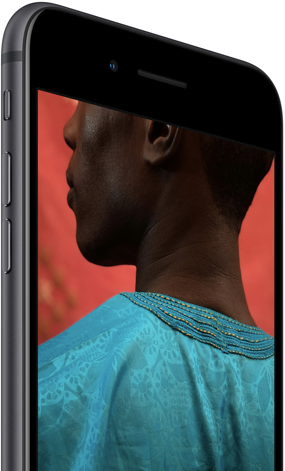
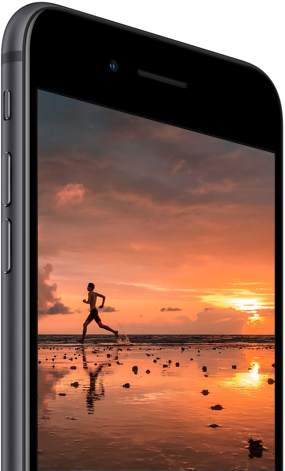
adding some stock images

diff --git a/index.html b/index.html
@@ -71,7 +71,7 @@
           to get the most out of your workout.</p>
       </div>
       <div class='section-image section-image-right'>
-        <img src='images/workout.png' alt=''>
+        <img src='images/workoutanywhere.png' alt=''>
       </div>
     </div>
   </section>
